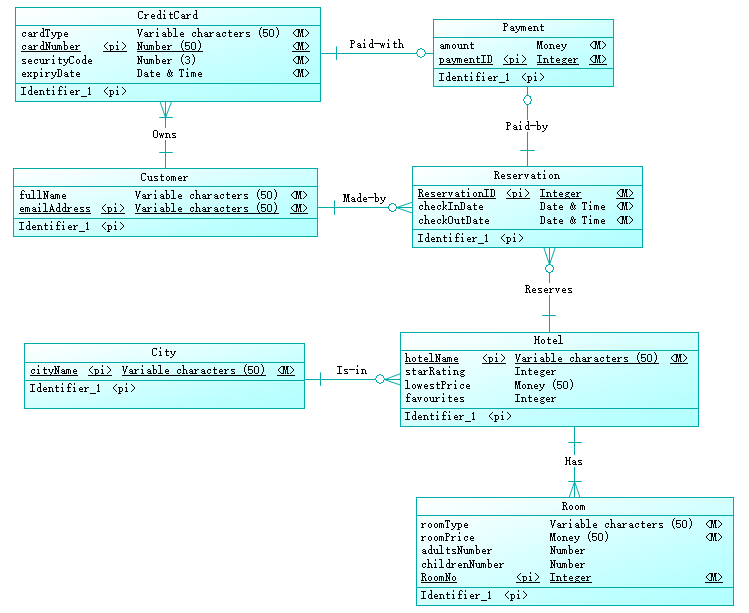
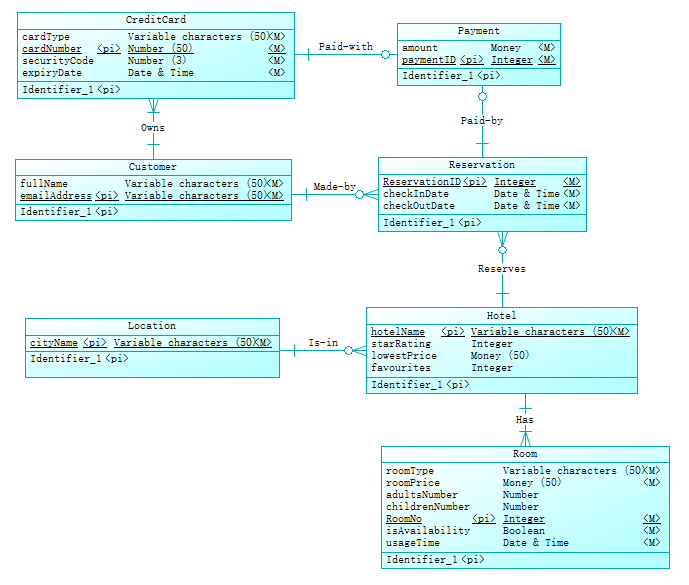
correct some mistake

Changed region(s): [[0.0, 0.0, 0.8839, 0.4923], [0.0305, 0.5231, 1.0, 1.0]]

diff --git a/_posts/2018-04-29-course-assignment-5.md b/_posts/2018-04-29-course-assignment-5.md
@@ -27,8 +27,6 @@ tags: 博客
 这里使用的数据库系统为**MySQL 4.0**：
 
 ```sql
-drop table if exists City;
-
 drop index Owns_FK on CreditCard;
 
 drop index "Paid-with_FK" on CreditCard;
@@ -40,6 +38,8 @@ drop table if exists Customer;
 drop index "Is-in_FK" on Hotel;
 
 drop table if exists Hotel;
+
+drop table if exists Location;
 
 drop index "Paid-by_FK" on Payment;
 
@@ -58,16 +58,6 @@ drop table if exists Reservation;
 drop index Has_FK on Room;
 
 drop table if exists Room;
-
-/*==============================================================*/
-/* Table: City                                                  */
-/*==============================================================*/
-create table City
-(
-   cityName                       varchar(50)                    not null,
-   primary key (cityName)
-)
-type = InnoDB;
 
 /*==============================================================*/
 /* Table: CreditCard                                            */
@@ -132,6 +122,16 @@ create index "Is-in_FK" on Hotel
 (
    cityName
 );
+
+/*==============================================================*/
+/* Table: Location                                              */
+/*==============================================================*/
+create table Location
+(
+   cityName                       varchar(50)                    not null,
+   primary key (cityName)
+)
+type = InnoDB;
 
 /*==============================================================*/
 /* Table: Payment                                               */
@@ -212,6 +212,8 @@ create table Room
    childrenNumber                 numeric(8,0),
    RoomNo                         int                            not null,
    hotelName                      varchar(50)                    not null,
+   isAvailability                 bool                           not null,
+   usageTime                      datetime                       not null,
    primary key (RoomNo)
 )
 type = InnoDB;
@@ -231,7 +233,7 @@ alter table CreditCard add constraint "FK_Paid-with" foreign key (paymentID)
       references Payment (paymentID) on delete restrict on update restrict;
 
 alter table Hotel add constraint "FK_Is-in" foreign key (cityName)
-      references City (cityName) on delete restrict on update restrict;
+      references Location (cityName) on delete restrict on update restrict;
 
 alter table Payment add constraint "FK_Paid-by" foreign key (ReservationID)
       references Reservation (ReservationID) on delete restrict on update restrict;
@@ -250,7 +252,6 @@ alter table Reservation add constraint FK_Reserves foreign key (hotelName)
 
 alter table Room add constraint FK_Has foreign key (hotelName)
       references Hotel (hotelName) on delete restrict on update restrict;
-
 ```
 
 #### - 简单叙说 数据库逻辑模型 与 领域模型 的异同
